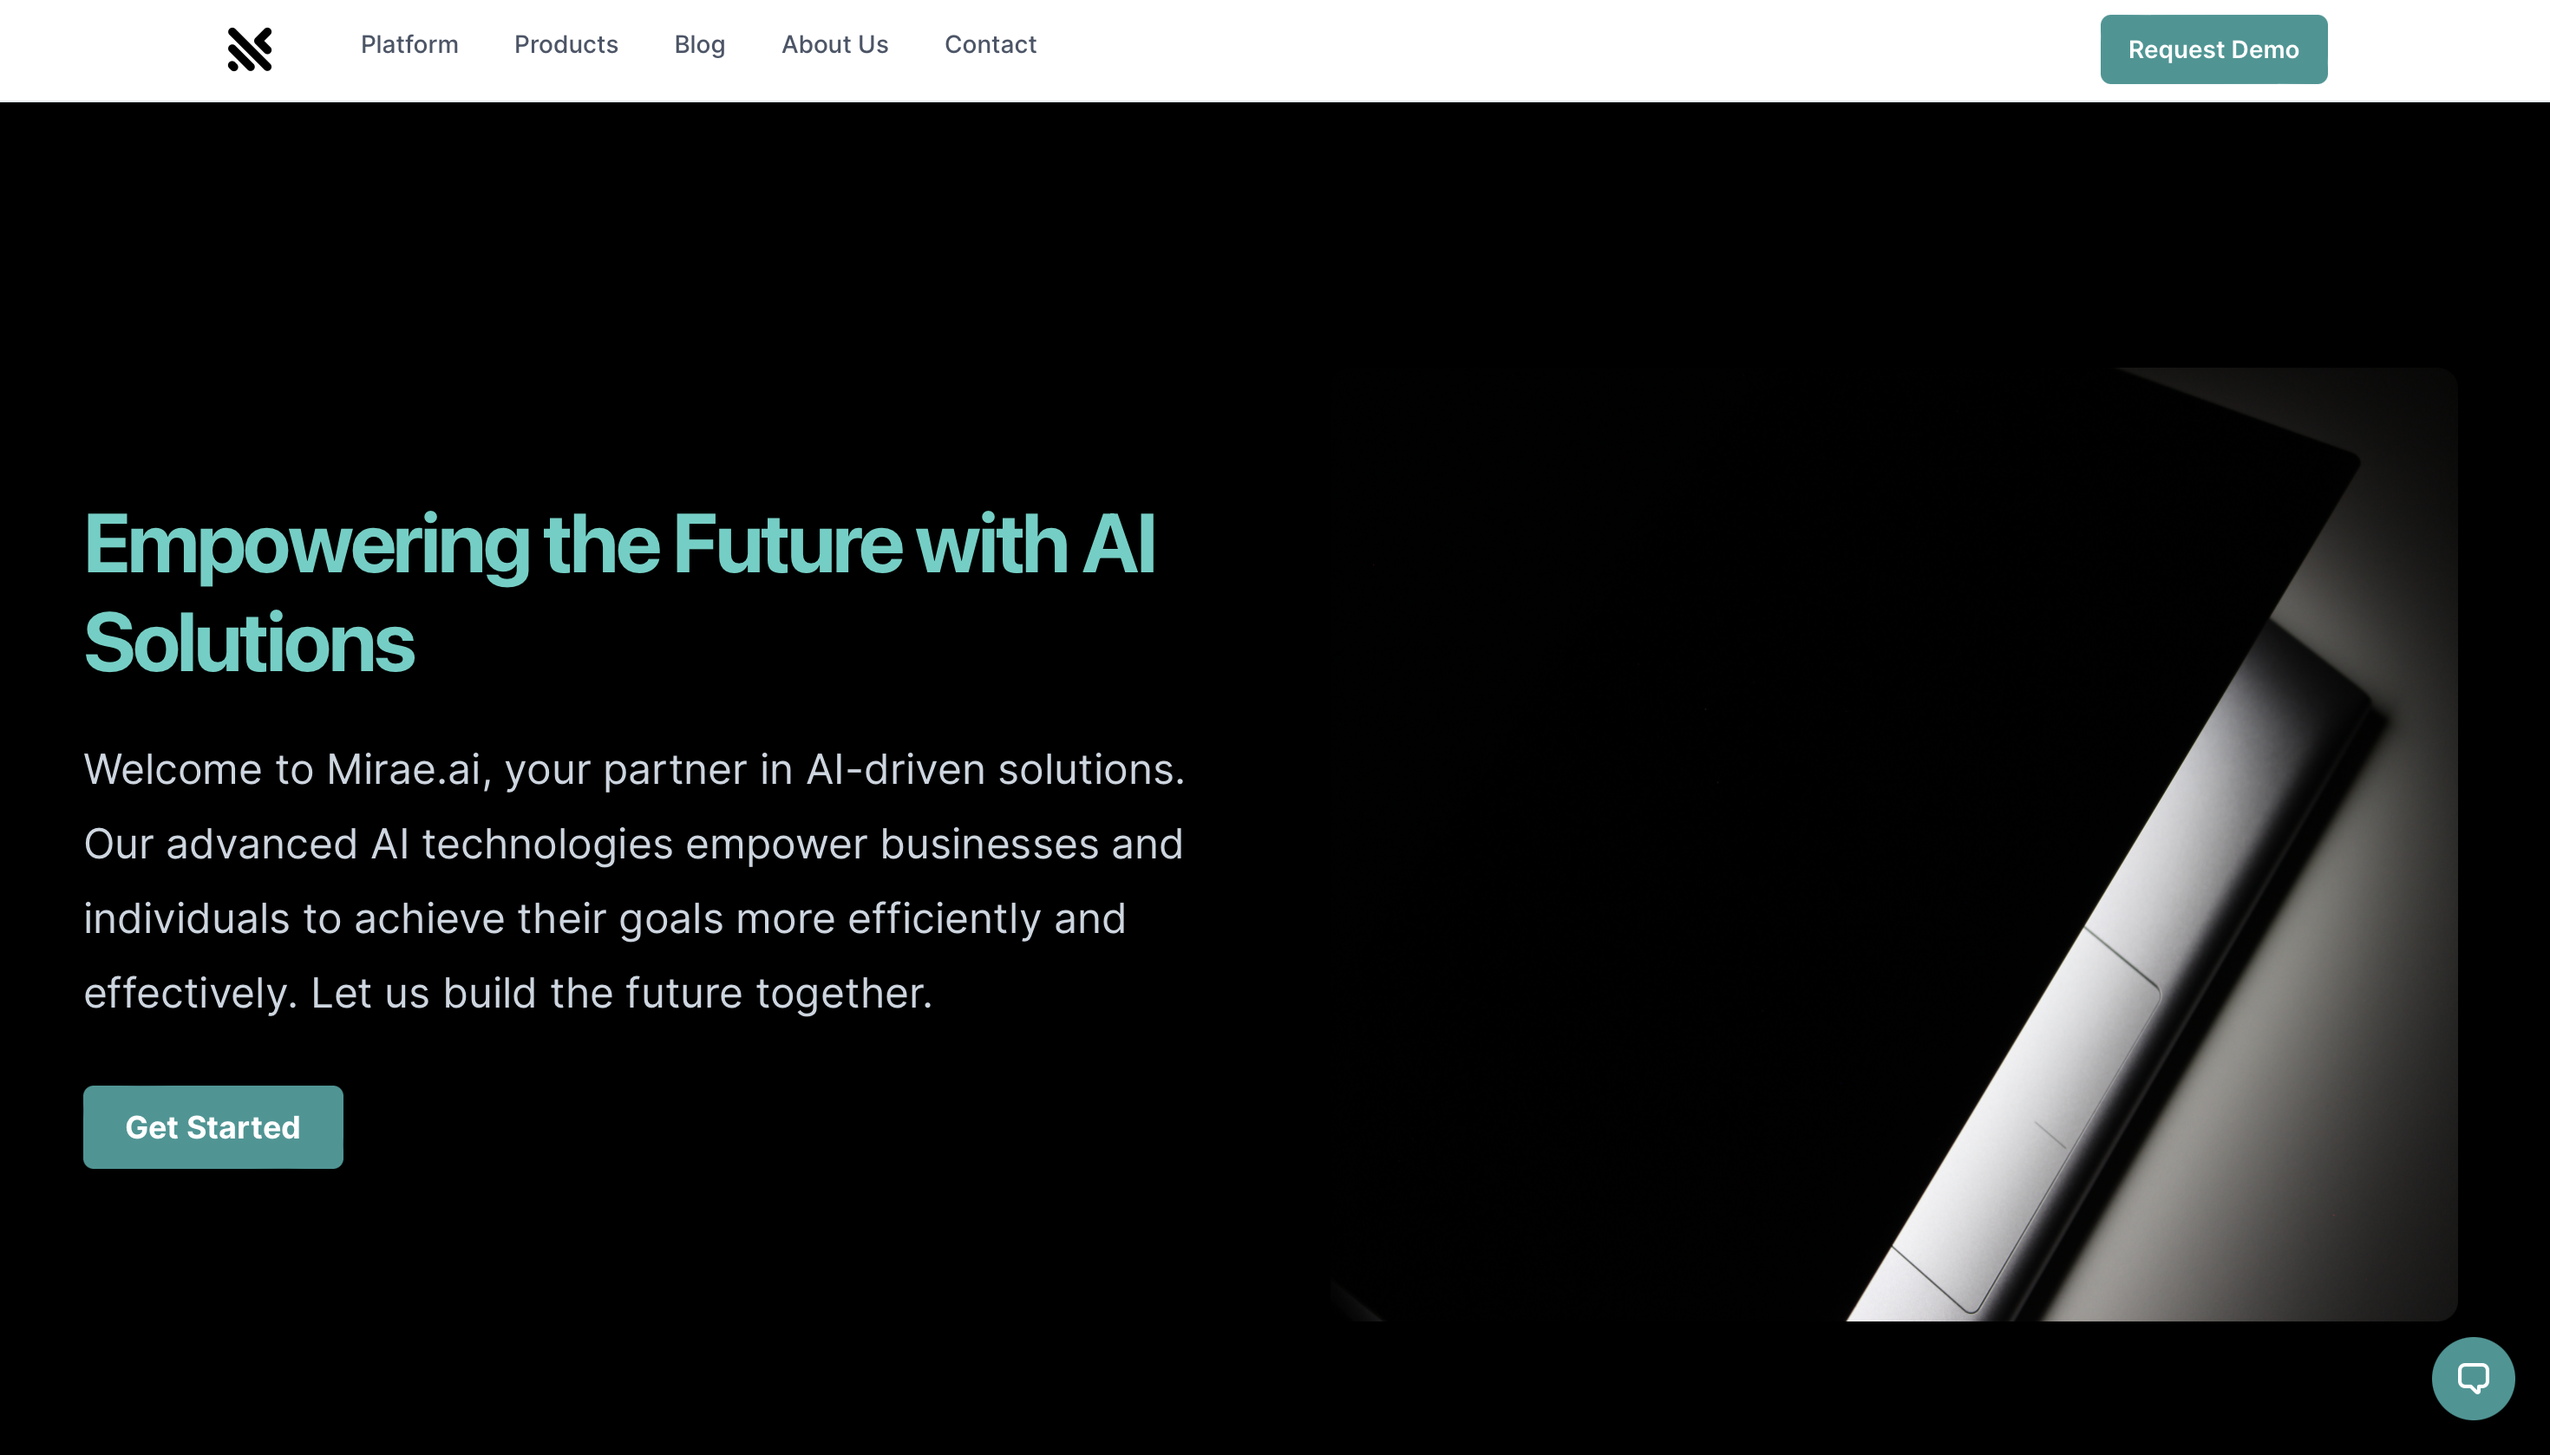
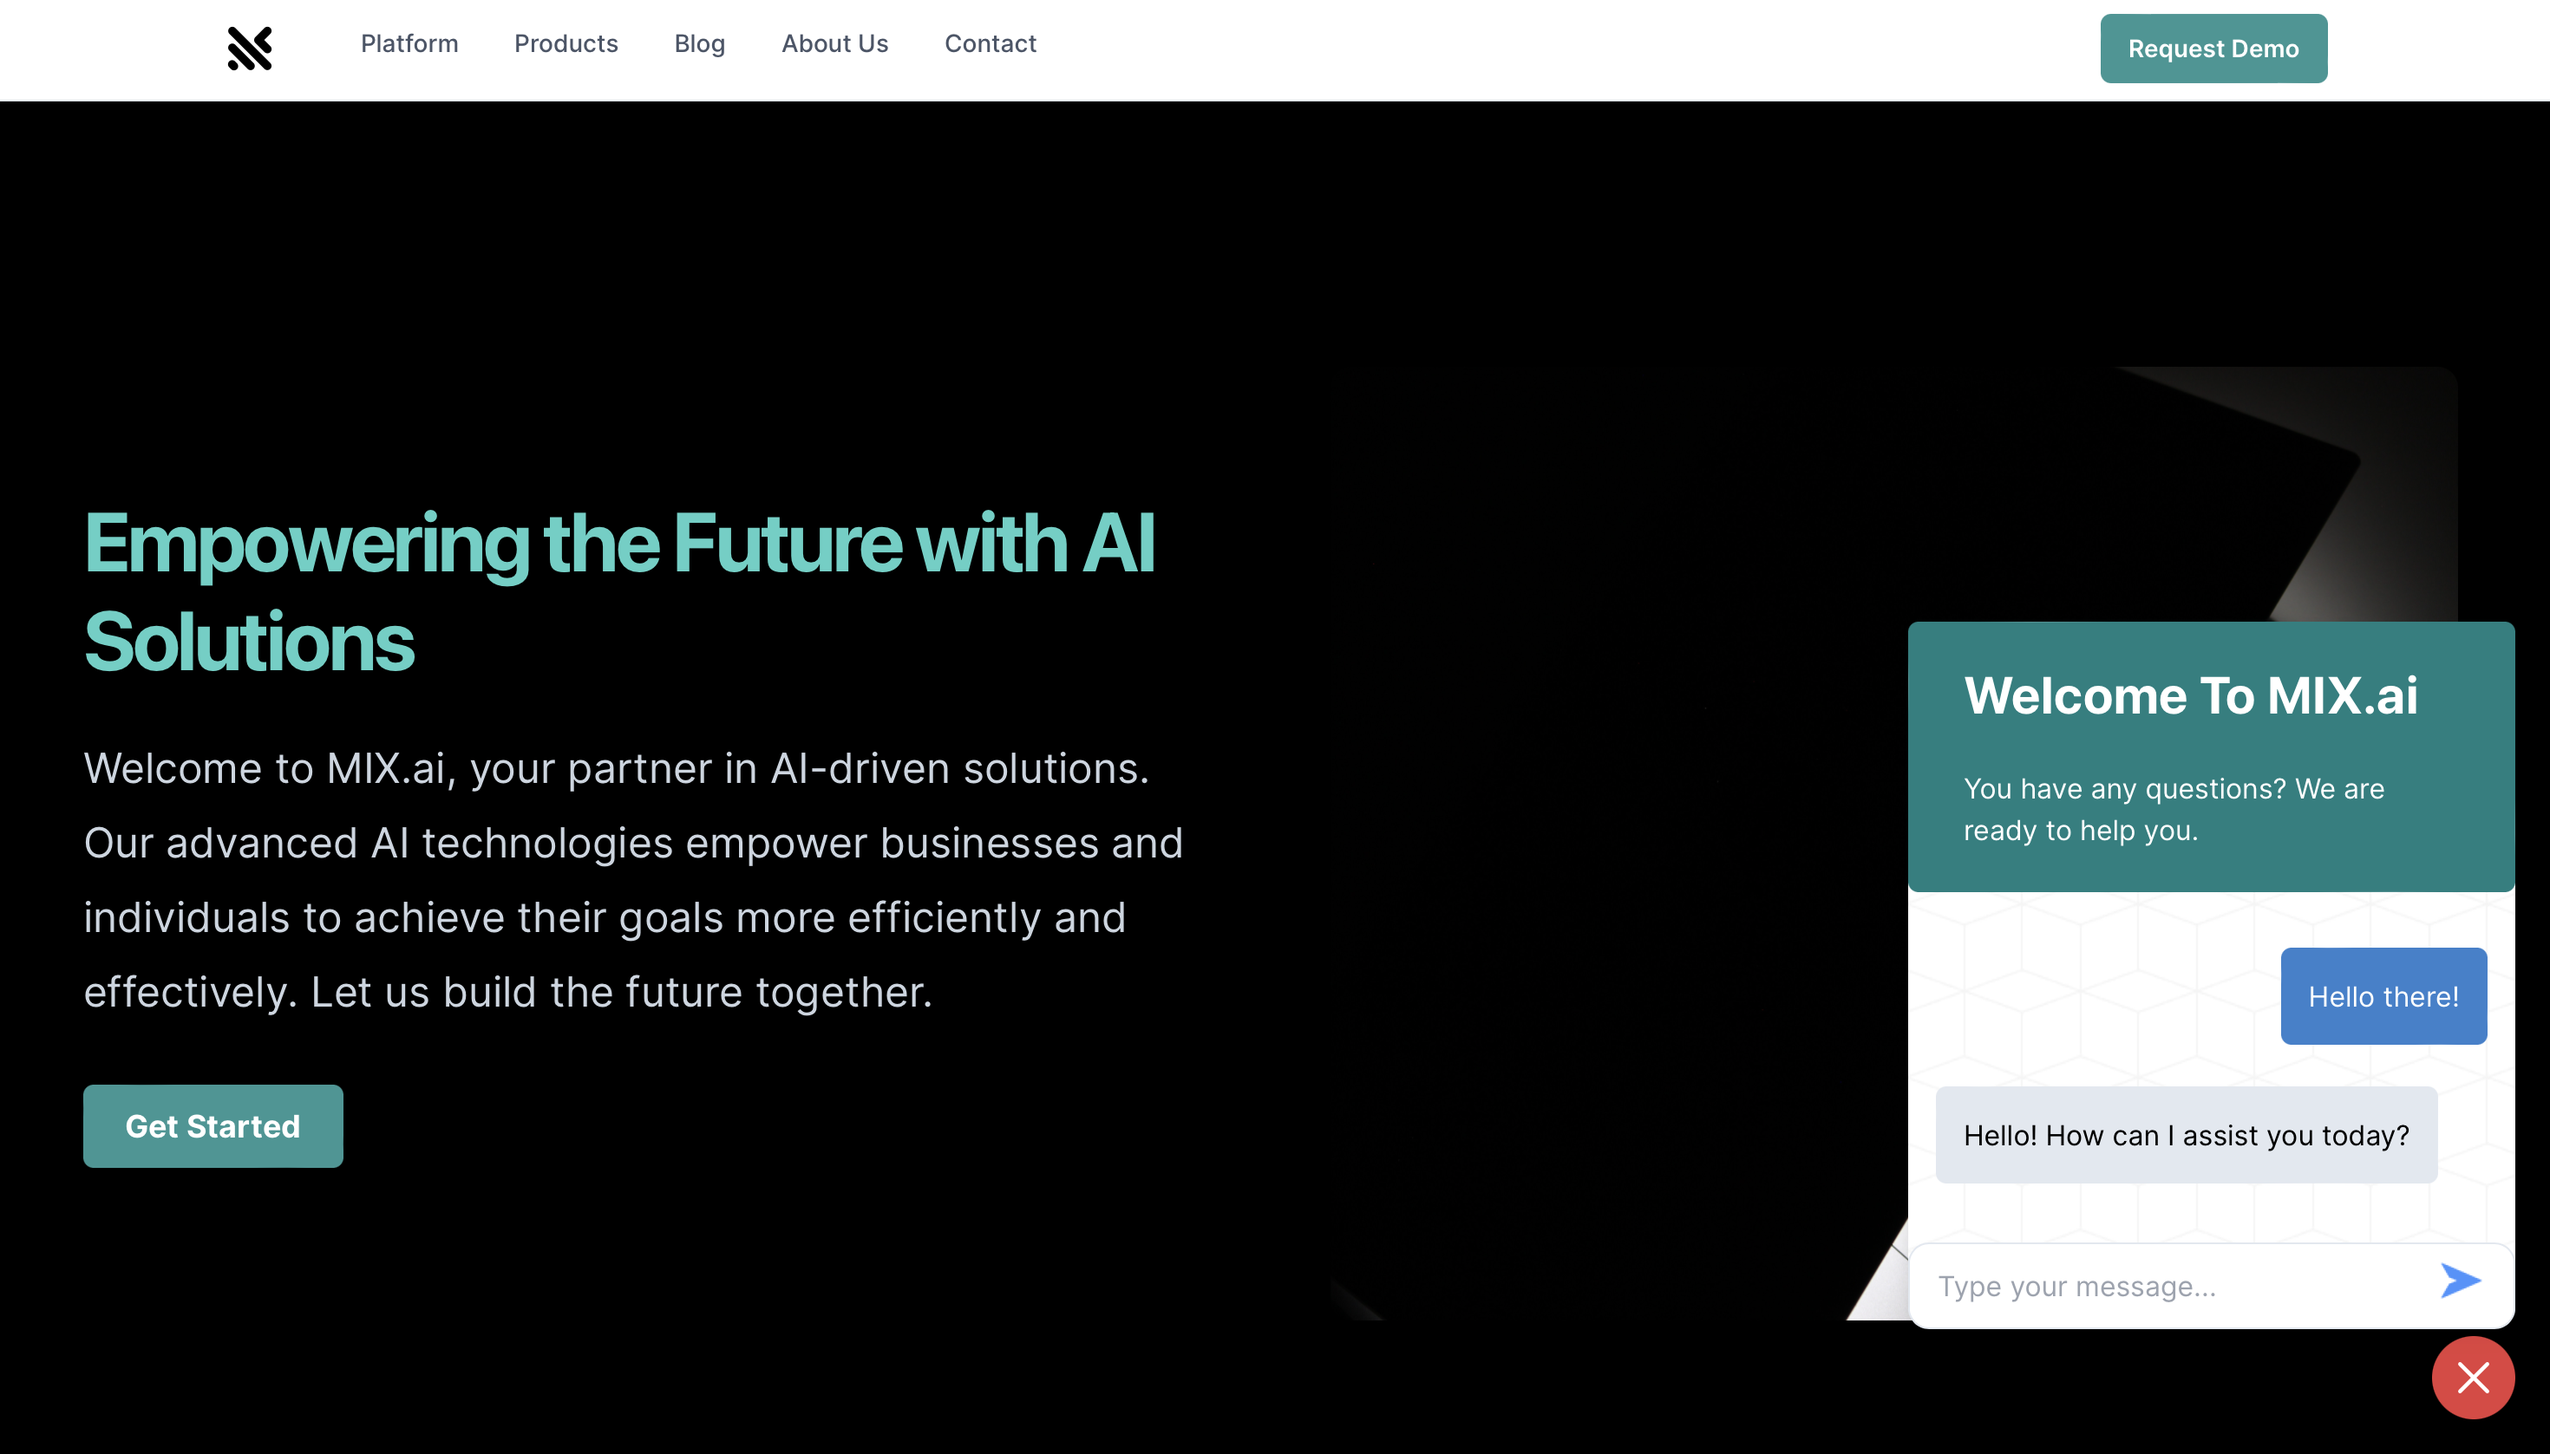
Data Update

Changed region(s): [[0.7429, 0.4031, 0.9905, 0.9922], [0.1548, 0.4961, 0.4643, 0.5581], [0.8357, 0.031, 0.8667, 0.062]]

diff --git a/lib/data.ts b/lib/data.ts
@@ -4,6 +4,9 @@ import { LuGraduationCap } from "react-icons/lu";
 import carpricepredictor from "@/public/carpricepredictor.png"
 import Mirae from "@/public/Mirae.png"
 import cytoui from "@/public/cytoui.jpg"
+import DERMIDimage from "@/public/DERMIDimage.png"
+import AutoSQL from "@/public/AutoSQL.png"
+import Dashboard from "@/public/Dashboard.png"
 
 export const links = [
   {
@@ -50,6 +53,14 @@ export const experiencesData = [
     date: "May 2023 - July 2023",
   },
   {
+    title: "Vice-Chairperson at GeeksForGeeks-Student Chapter",
+    location: "New Delhi, India",
+    description:
+      "Managed a team of 8 members, organized various technical events and hackathons in the college.",
+    icon: React.createElement(CgWorkAlt),
+    date: "March 2022 - April 2023",
+  },
+  {
     title: "Apprentice, Allsoft Solutions",
     location: "Remote",
     description:
@@ -68,6 +79,14 @@ export const experiencesData = [
 
 export const projectsData = [
   {
+    title: "DERM-ID",
+    description:
+      "ML-based SaaS web application utilizing JavaScript, Next.JS, Python, Tensorflow, and Flask for preliminary diagnosis of dermatological diseases through image uploading.",
+    tags: ["JavaScript", "Next.Js", "TailwindCSS", "Python", "Tensorflow", "Flask"],
+    imageUrl: DERMIDimage,
+    projectlink:"https://github.com/tusharbhatia2002/DERMID",
+  },
+  {
     title: "CytoUI",
     description:
       "I worked as a software developer intern at IIIT Delhi, where I worked in development of CytoUI, which is a flow cytometry tool used to visualize flow cytometry data.",
@@ -76,12 +95,28 @@ export const projectsData = [
     projectlink:"https://github.com/tusharbhatia2002/cytoUI_T",
   },
   {
-    title: "Mirae.ai",
+    title: "Auto-SQL Query Generator",
     description:
-      "Front-end prototype website devloped as a part of Internship project.",
-    tags: ["Next.js", "TypeScript", "ChakraUI", "Google Analytics"],
+      "End-to-end LLM application using Google Gemini Pro to generate SQL queries from text and retrieve queries from SQL database",
+    tags: ["Python", "Streamlit", "LLM", "Google Gemini Pro", "SQlite"],
+    imageUrl: AutoSQL,
+    projectlink:"https://auto-sql-query-genartor.streamlit.app/",
+  },
+  {
+    title: "MIX.ai",
+    description:
+      "Front-end prototype website devloped with AI-pwered chatbot as a part of Internship project.",
+    tags: ["Next.js", "TypeScript", "ChakraUI", "Google Analytics", "OpenAI API"],
     imageUrl: Mirae,
     projectlink:"https://main.d1eli87l6v7xbr.amplifyapp.com",
+  },
+  {
+    title: "E-Commerce CMS",
+    description:
+      "Full-stack Content Management System Dashboard web application for managing ecommerce stores",
+    tags: ["Next.js", "TypeScript", "shadcn UI", "MongoDB"],
+    imageUrl: Dashboard,
+    projectlink:"https://github.com/tusharbhatia2002/ECommerce-CMS-Dashboard",
   },
   {
     title: "Car Price Predictor",
